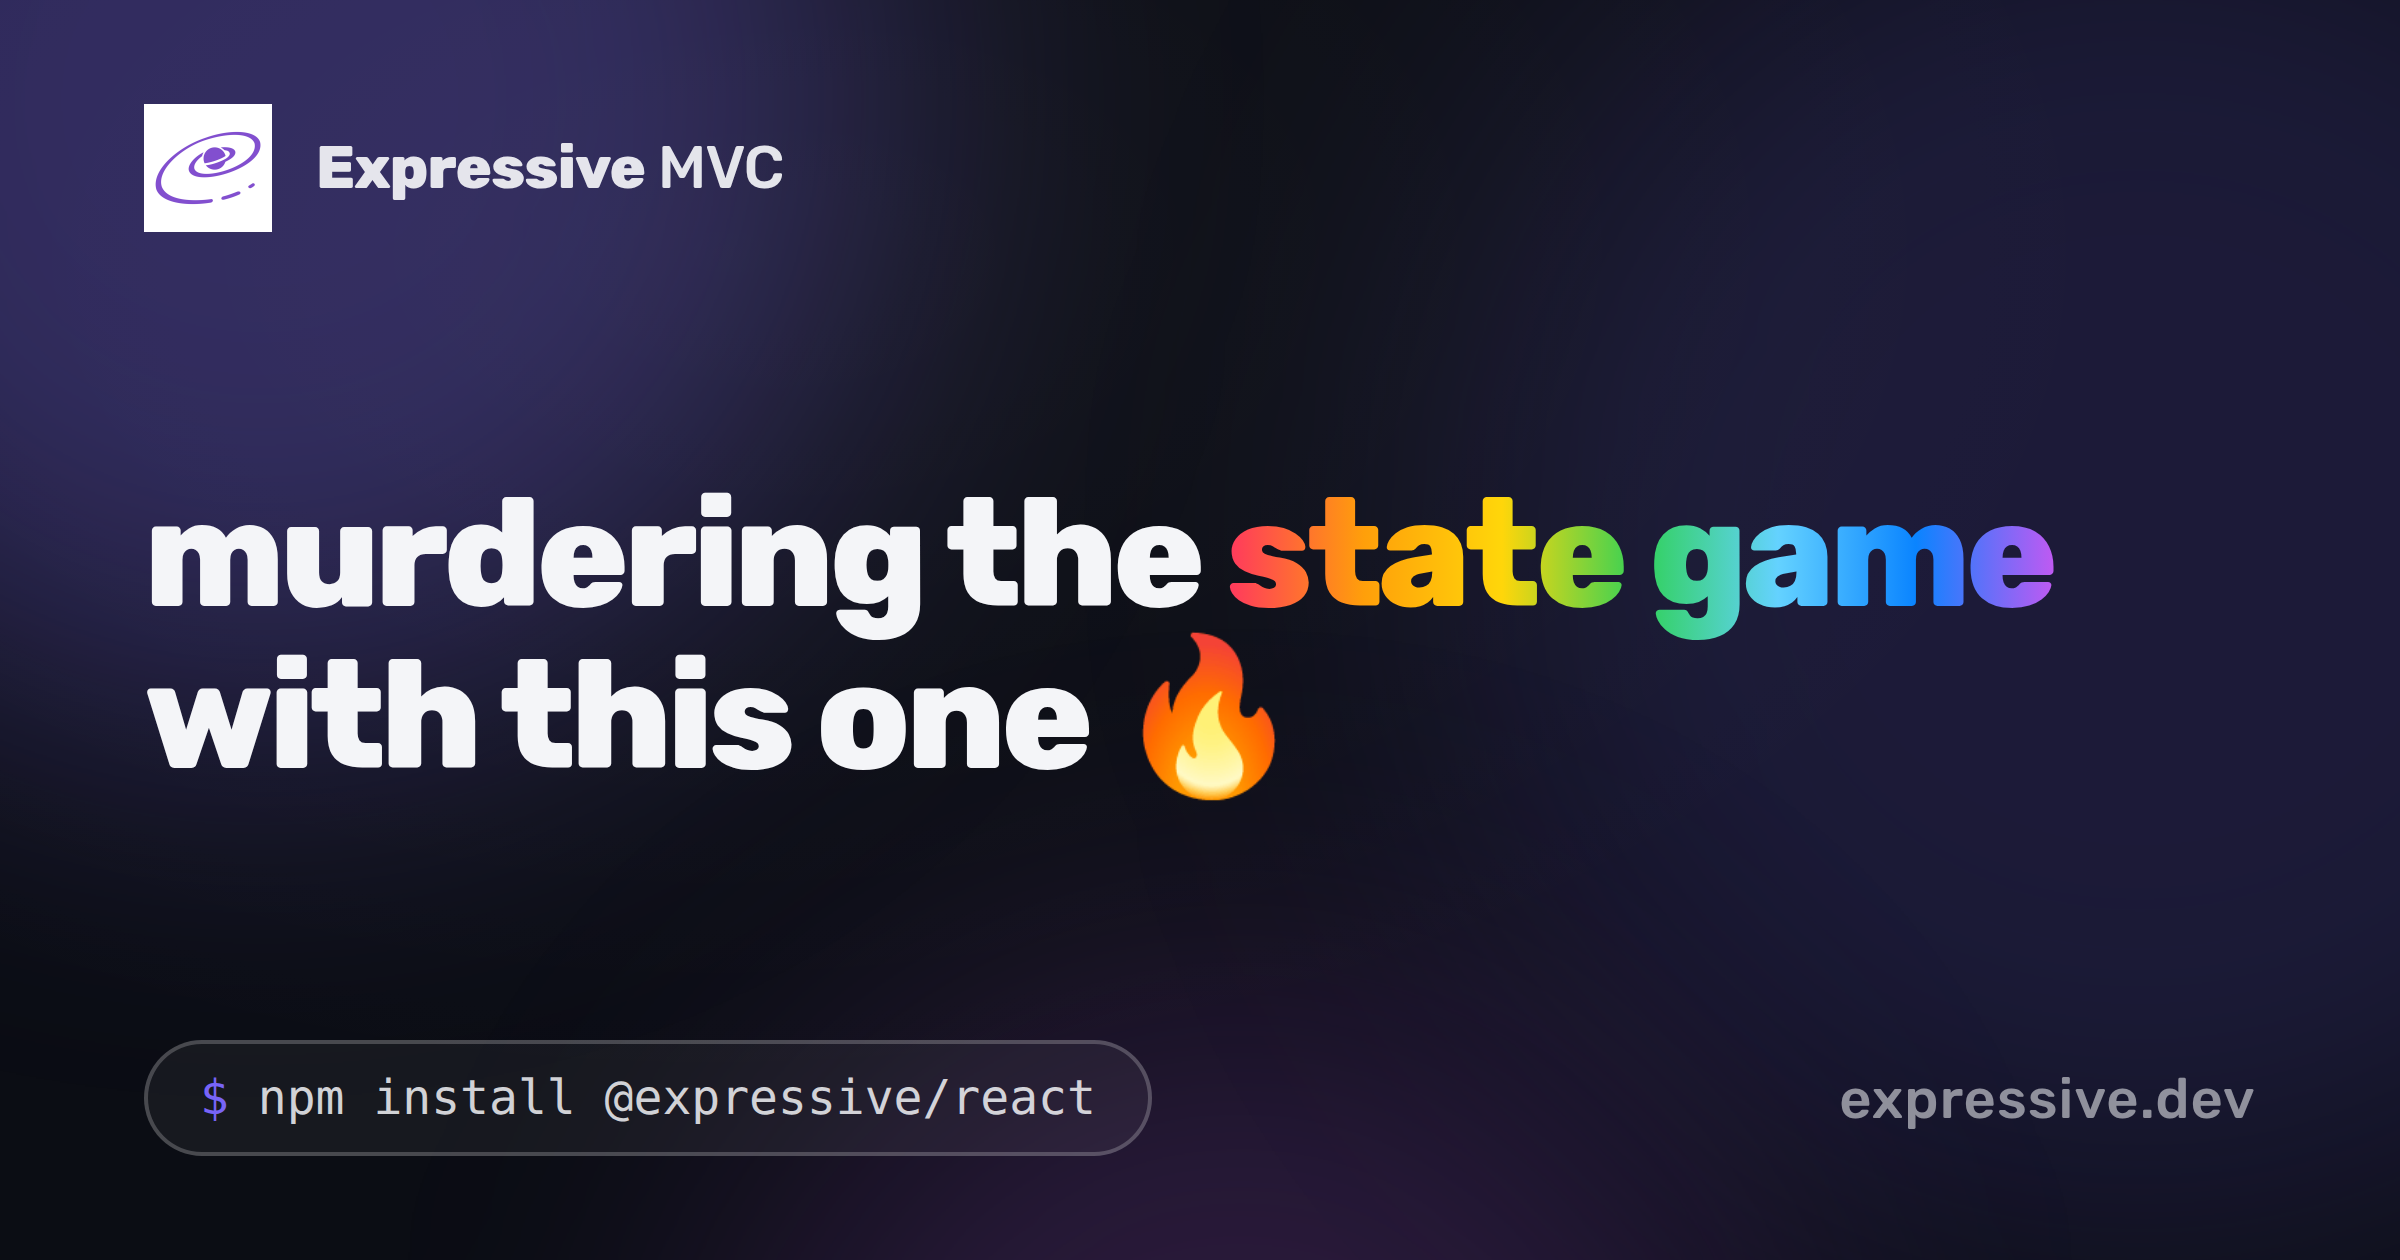
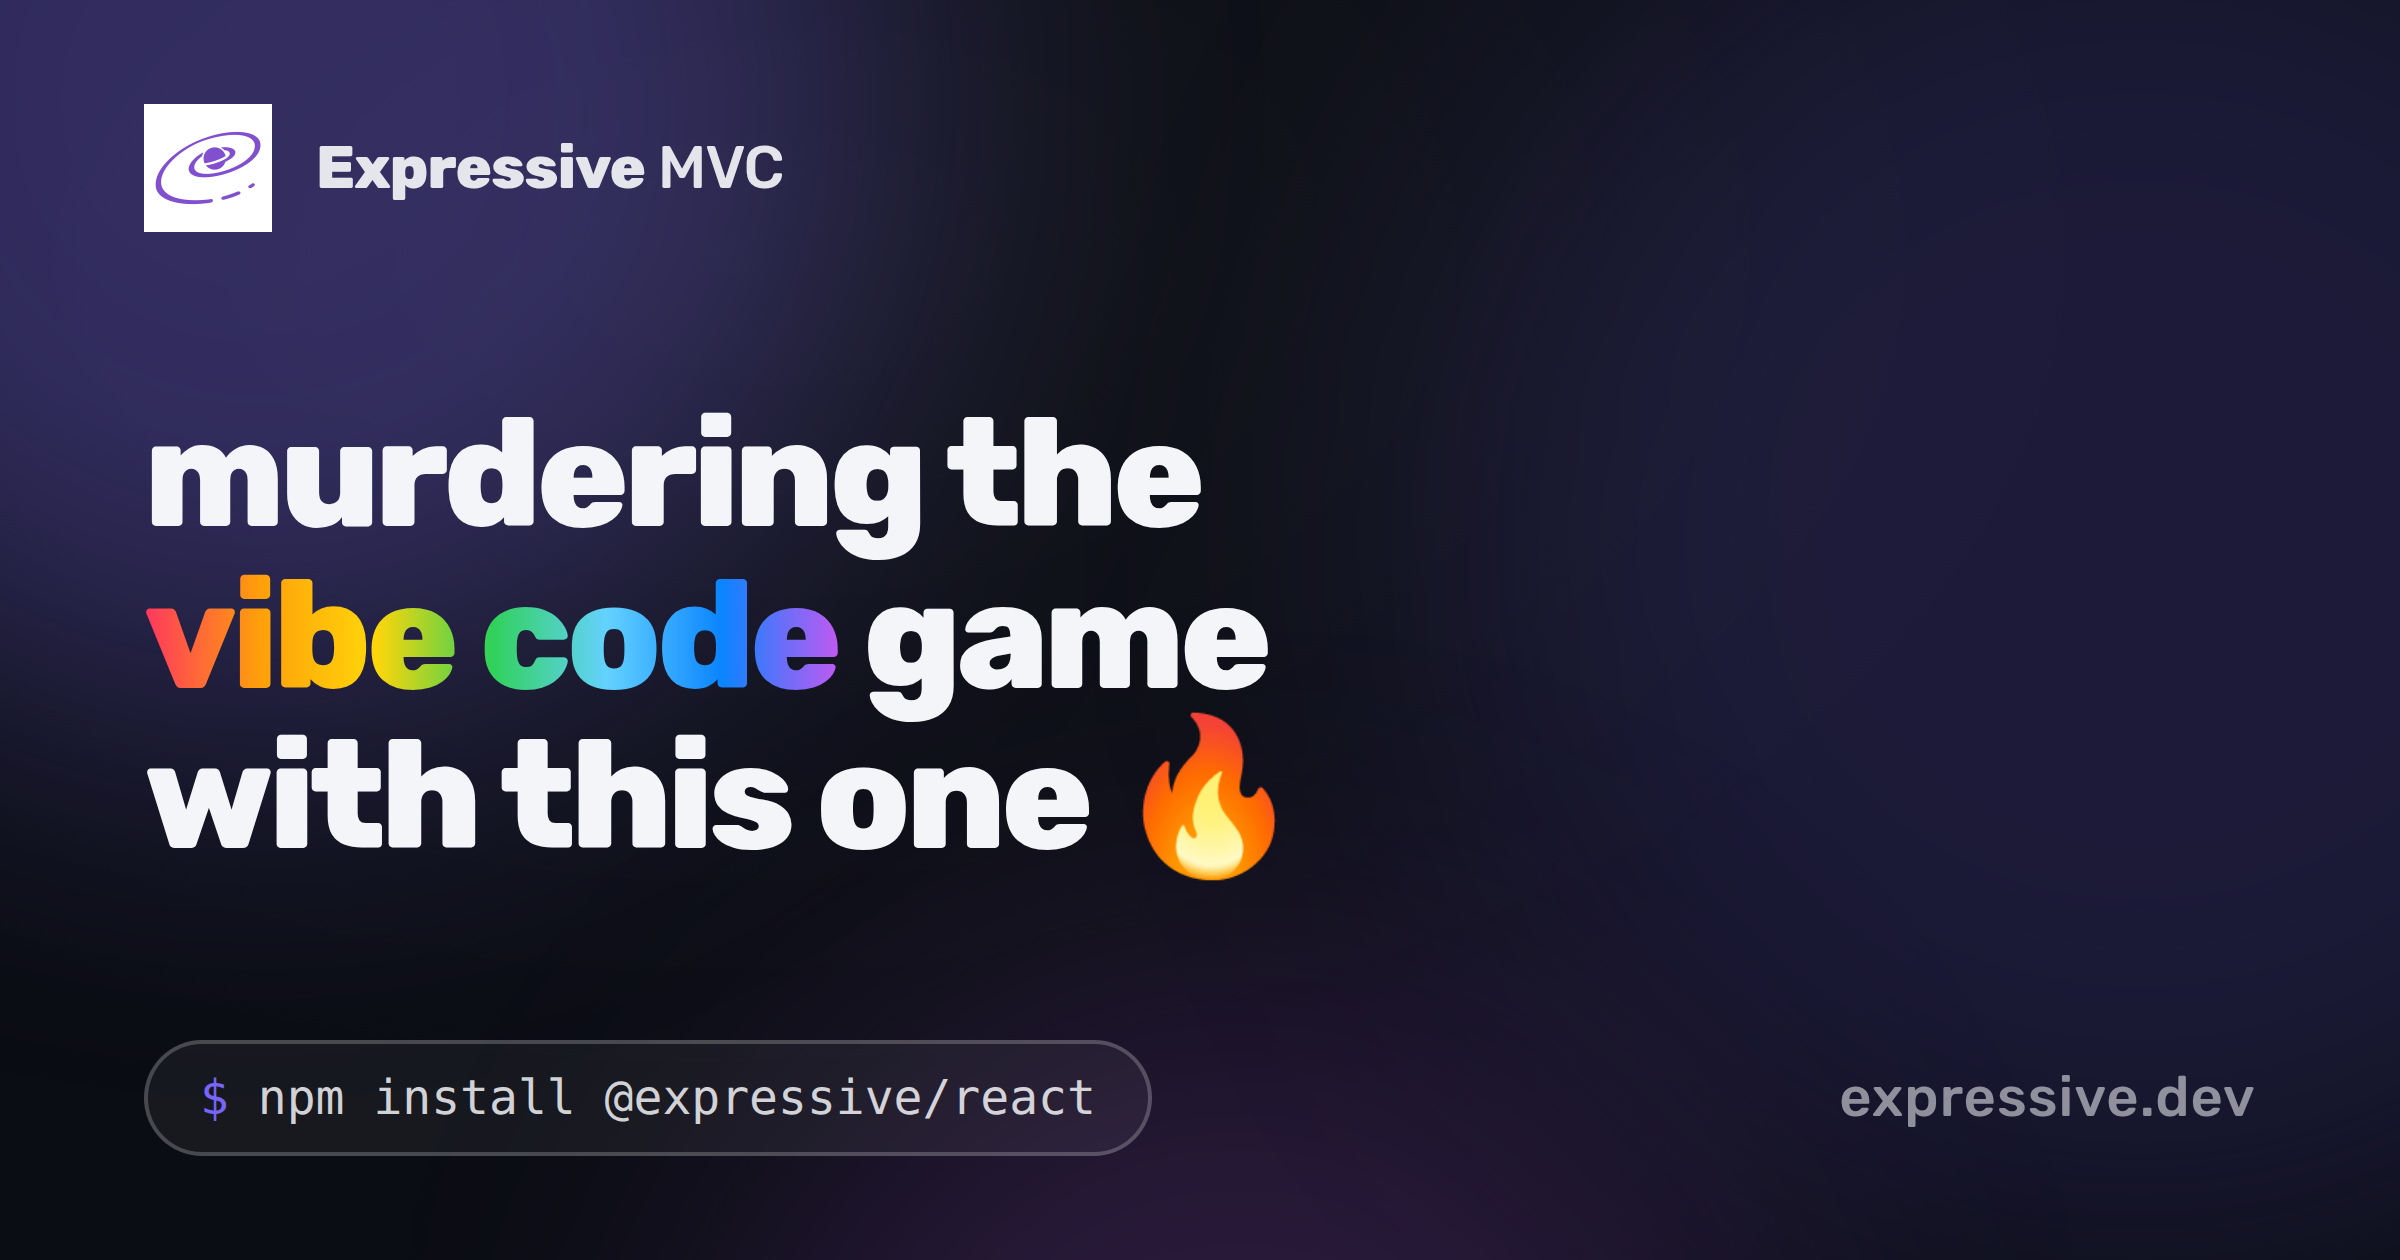
Update OG card: rainbow on vibe code in "vibe code game"
Claude-Session: https://claude.ai/code/session_01BXnGBeLt5ab764akXRc7xD

Changed region(s): [[0.0625, 0.3095, 0.875, 0.7119], [0.7812, 0.8667, 0.9375, 0.8976]]

diff --git a/website/app/routes/home/index.tsx b/website/app/routes/home/index.tsx
@@ -32,7 +32,7 @@ export function meta() {
     { property: 'og:title', content: 'Expressive MVC' },
     {
       property: 'og:description',
-      content: 'murdering the state game with this one 🔥',
+      content: 'murdering the vibe code game with this one 🔥',
     },
     { property: 'og:image', content: 'https://refactor-micha-snipe.expressive-state.pages.dev/brand/og-micha.png' },
     { property: 'og:image:width', content: '2400' },
@@ -41,7 +41,7 @@ export function meta() {
     { name: 'twitter:card', content: 'summary_large_image' },
     {
       name: 'twitter:description',
-      content: 'murdering the state game with this one 🔥',
+      content: 'murdering the vibe code game with this one 🔥',
     },
     { name: 'twitter:image', content: 'https://refactor-micha-snipe.expressive-state.pages.dev/brand/og-micha.png' },
   ];
